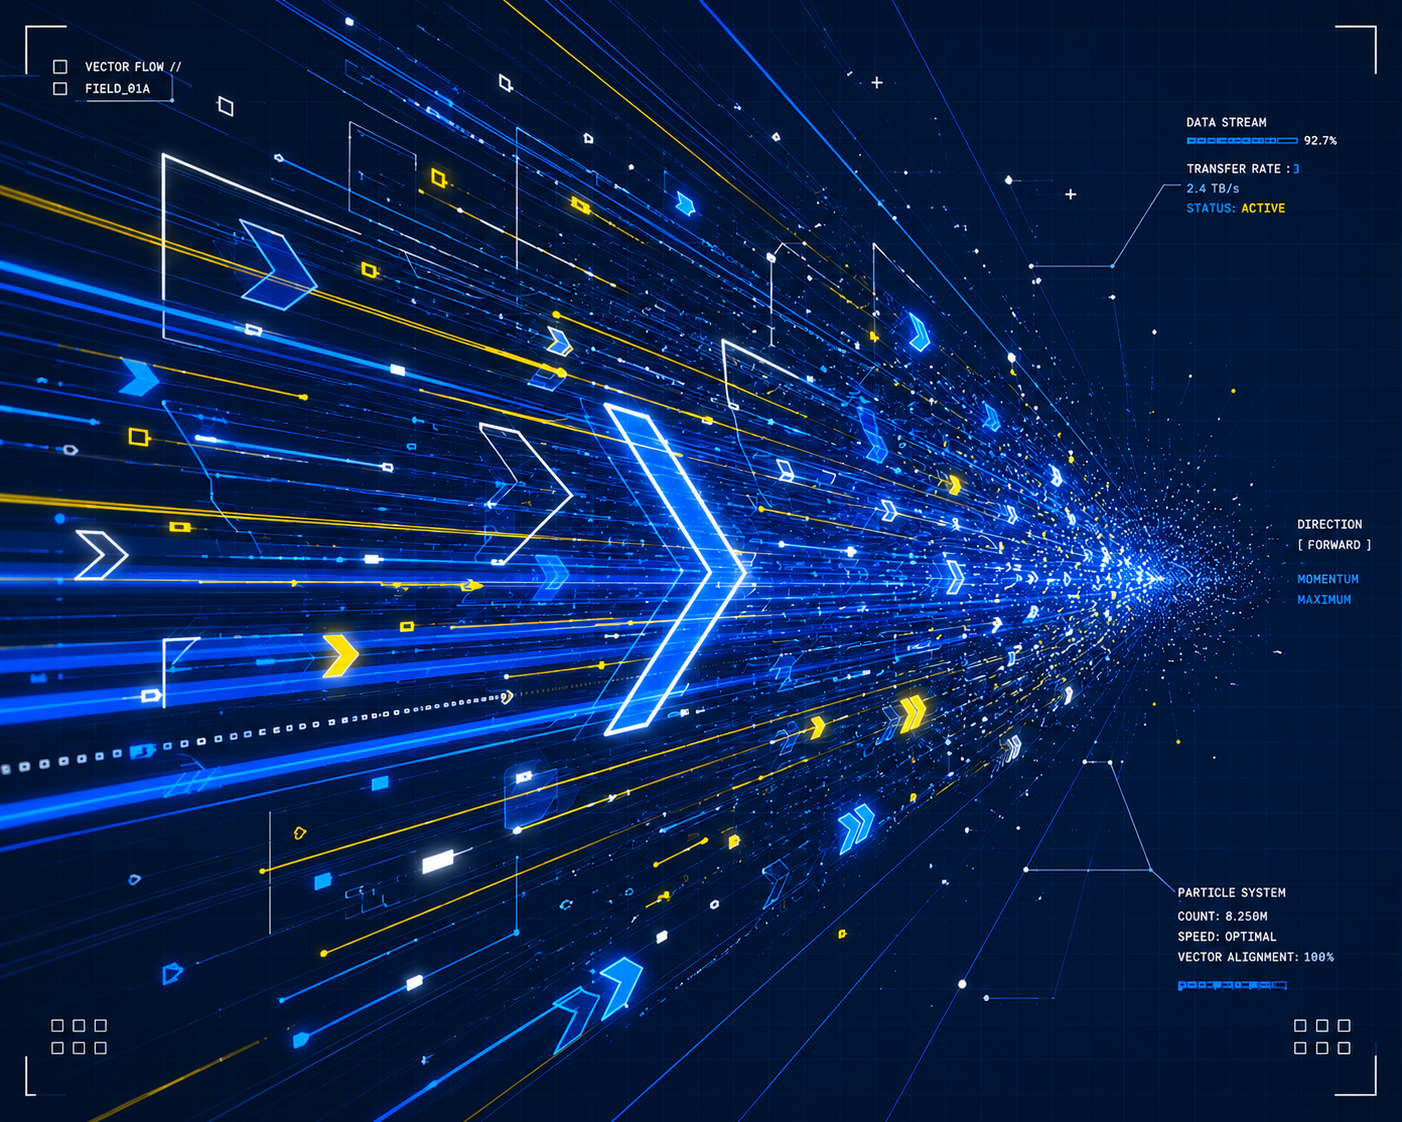
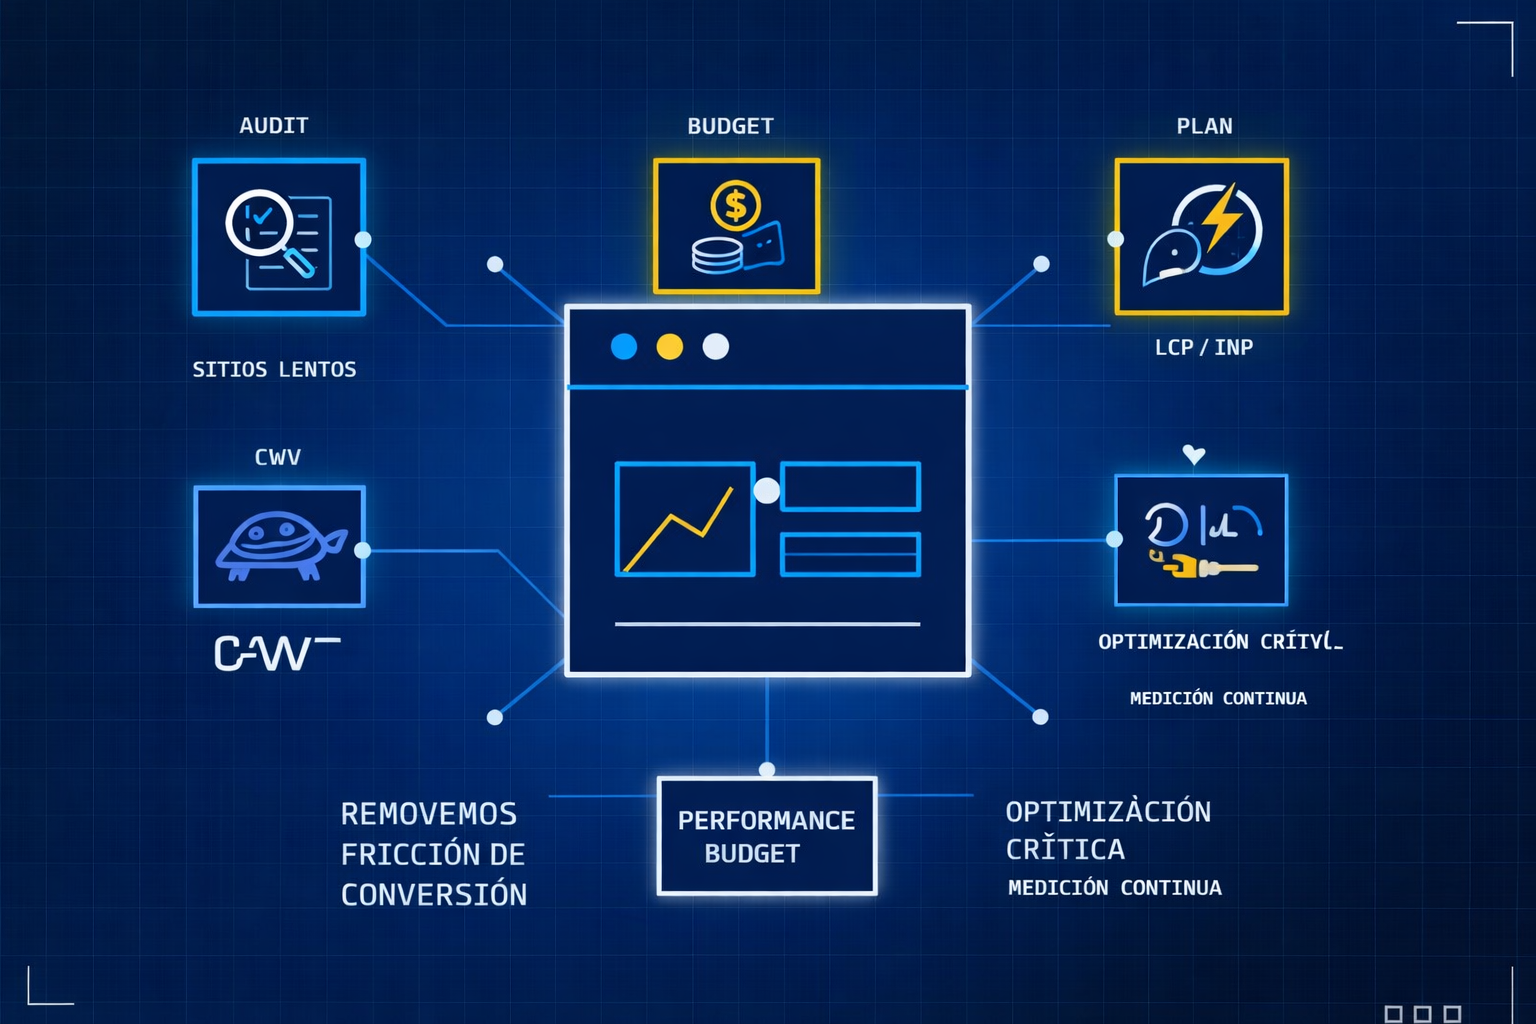
actualiza cards que resolvemos

diff --git a/_specs/card.md b/_specs/card.md
@@ -87,7 +87,7 @@ Inspirada en diseño `card-blog-post-lorem.html`. Reutiliza el patrón `zoomimg`
 </dialog>
 ```
 
-**Uso:** Secciones de problema/solución en home (`#que-resolvemos`). También admite variante sin imagen (solo ícono Material + badge) para mostrar casos destacados, usando la misma estructura pero reemplazando `.zoomimg` por un ícono centrado y la lista de decisiones clave en lugar del detalle de entregables.
+**Uso:** Secciones de problema/solución en home (`#que-resolvemos`). Las últimas 3 cards usan la misma estructura visual pero con `<span class="istria-btn">` sin enlace (modal como única interacción). También admite variante sin imagen (solo ícono Material + badge) para mostrar casos destacados, usando la misma estructura pero reemplazando `.zoomimg` por un ícono centrado y la lista de decisiones clave en lugar del detalle de entregables.
 
 ---
 

diff --git a/docs/SPECIFICATION.md b/docs/SPECIFICATION.md
@@ -68,7 +68,7 @@ Presentes en las 18 páginas vía `_includes/layouts/base.njk`.
 | ID | Título | Componentes usados |
 |----|--------|--------------------|
 | — | Hero | `.hero-blueprint`, `.network-pattern`, `.gradient-blur`, `.btn-primary`, `.hero-link-tech` |
-| `#que-resolvemos` | Qué resolvemos | SectionHeader, 3× Card Blog Post con imagen, lupa interactiva, modal de entregables y CTA estilo Istria + 3× Card Default centrada con ícono, lista breve e `.istria-btn` |
+| `#que-resolvemos` | Qué resolvemos | SectionHeader, 6× Card Blog Post con imagen, lupa interactiva, modal de entregables. Las 3 primeras con CTA estilo Istria con enlace a servicio; las 3 últimas con CTA sin enlace (modal como única interacción) |
 | `#areas` | Áreas clave | SectionHeader, carrusel nativo de 4× Card Feature con Material Icons y navegación previa/siguiente |
 | `#casos-accion` | Transformación digital en acción | SectionHeader split, 3× Card interactiva con ícono Material, intro mínima, ilustración técnica, decisiones clave, enlace "Ver caso" y CTAs al pie |
 | `#servicios` | Servicios | SectionHeader, 4× Card Link |